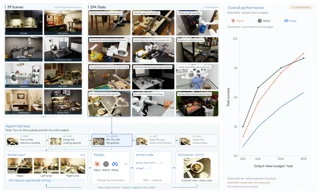
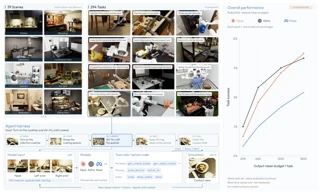
Publish A harness with grouped API labels

Changed region(s): [[0.0, 0.7461, 0.6875, 0.9637], [0.25, 0.9326, 0.3125, 0.9637], [0.125, 0.9637, 0.1562, 0.9948]]

diff --git a/data.js b/data.js
@@ -1,1 +1,1 @@
[2 lines of base64/hex data omitted]

diff --git a/index.html b/index.html
@@ -1,4 +1,4 @@
 <!doctype html>
 <html lang="zh-CN"><head><meta charset="utf-8"><meta name="viewport" content="width=device-width,initial-scale=1"><meta name="description" content="RoboWild figure library. Current figures synchronized from Google Slides, with full-resolution PNG downloads."><title>RoboWild · Figure Library</title><link rel="stylesheet" href="style.css"></head>
 <body><header><a class="brand" href="./">Robo<span>Wild</span><small>FIGURE LIBRARY</small></a><div class="source"><span class="dot"></span>Google Slides 与衍生版本<small id="updated"></small></div></header>
-<main><aside><div class="list-heading"><h1>全部版本</h1><span id="count"></span></div><p class="hint">Slides 原稿 + 新增设计版本</p><nav id="versions" aria-label="图稿版本"></nav></aside><section class="viewer" aria-labelledby="title"><div class="viewer-heading"><div><p id="page-label" class="eyebrow"></p><h2 id="title"></h2><p id="dimensions" class="hint"></p></div><div class="actions"><a id="open" target="_blank" rel="noopener">打开原图 ↗</a><a id="download" class="primary" download>下载 PNG ↓</a></div></div><a id="image-link" target="_blank" rel="noopener" title="打开原尺寸 PNG"><img id="figure" alt="" width="3200" height="3390"></a><footer><span>原稿同步保留 · 衍生版本独立展示</span><span id="position"></span></footer></section></main><noscript>请启用 JavaScript 查看和切换全部图稿。</noscript><script src="data.js?v=1621b71d04ec6cce"></script><script src="app.js?v=1621b71d04ec6cce"></script></body></html>
+<main><aside><div class="list-heading"><h1>全部版本</h1><span id="count"></span></div><p class="hint">Slides 原稿 + 新增设计版本</p><nav id="versions" aria-label="图稿版本"></nav></aside><section class="viewer" aria-labelledby="title"><div class="viewer-heading"><div><p id="page-label" class="eyebrow"></p><h2 id="title"></h2><p id="dimensions" class="hint"></p></div><div class="actions"><a id="open" target="_blank" rel="noopener">打开原图 ↗</a><a id="download" class="primary" download>下载 PNG ↓</a></div></div><a id="image-link" target="_blank" rel="noopener" title="打开原尺寸 PNG"><img id="figure" alt="" width="3200" height="3390"></a><footer><span>原稿同步保留 · 衍生版本独立展示</span><span id="position"></span></footer></section></main><noscript>请启用 JavaScript 查看和切换全部图稿。</noscript><script src="data.js?v=3c21a7271df937e2"></script><script src="app.js?v=3c21a7271df937e2"></script></body></html>
